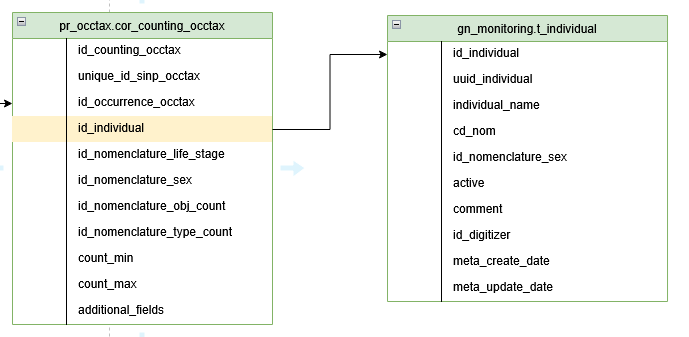
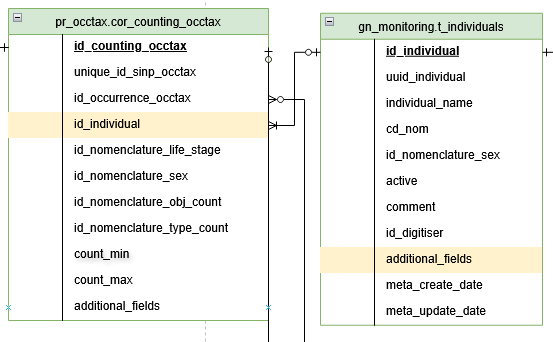
Update CDC with MCD

Changed region(s): [[0.0, 0.0, 1.0, 0.9792], [0.3996, 0.4748, 0.4611, 0.5045], [0.1844, 0.9792, 0.2152, 1.0]]

diff --git a/cahier-des-charges/Cross-DBio-CDC_suivi-individus.md b/cahier-des-charges/Cross-DBio-CDC_suivi-individus.md
@@ -25,6 +25,9 @@
     - [Gestion des capture et échantillons](#gestion-des-capture-et-échantillons)
       - [Prélèvement / capture](#prélèvement--capture)
       - [Echantillons](#echantillons)
+      - [Analyse des échantillons](#analyse-des-échantillons)
+    - [Marquages et équipements sur individus](#marquages-et-équipements-sur-individus)
+    - [Types de sujet d’observation](#types-de-sujet-dobservation)
 
 ## Contexte et besoin
 Le Parc national de la Vanoise (PNV) et le Parc national du Grand Paradis (PNGP) partagent un patrimoine naturel exceptionnel, avec des milieux alpins similaires et des espèces emblématiques communes. Les populations animales, notamment le bouquetin des Alpes, se déplacent ponctuellement entre les deux territoires, ignorant les frontières administratives. Cette continuité écologique nécessite une approche transfrontalière de la gestion et du suivi de la biodiversité.
@@ -263,3 +266,35 @@ Pour certaines espèces, la détermination ne peut se faire qu'après analyse à
 La table t_collection_samples ne fera référence qu’à cette table t_samples.
 
 -------------------------------
+
+#### Analyse des échantillons
+
+Ne semble pas utile aujourd’hui et en l’état à la communauté Geonature. Se pose donc la question de l’implémentation d’un module à part ou de la création d’une base de données à part.
+Amandine Sahl pose même la question de l’intérêt du stockage en BDD au lieu d’une simple numérisation en pdf.
+
+### Marquages et équipements sur individus
+Depuis la version 2.16.0, il existe une table `gn_monitoring.t_marking_events` qui permet le stockage d’évènements de marquage pour le monitoring.
+
+Dans notre contexte en plus de marquages, nous avons besoin d’équiper les individus d’équipements de type collier GPS. Afin de répondre à divers besoins nous pouvons imaginer tout type d’équipements. Pour répondre à ce besoin nous allons donc renommer et modifier la table `t_marking_events` afin qu’elle puisse stocker tout type d’équipement (balises, marquages, …) : `gn_monitoring.t_individual_equipments`.
+
+La table `t_individual_equipments` est liées à une capture, donc a un relevé et n’a donc plus besoin pour la partie occtax des champs de type « évènement » (localisation, date, opérateur).
+
+Côté monitoring, il nous faut, cependant, recréer une table afin de disposer de ces éléments lors de la saisie. Nous créerons donc la table `gn_monitoring.t_capture_events` qui reprends les champs de la table `t_individual_events` non repris dans `t_individual_equipments`.
+ 
+![Schémas t_individual_equipment](./images/marquages_equipements.png)
+
+### Types de sujet d’observation
+
+Il doit être, au regard de nos besoins, possible d’associer à un relevé (une observation) un observateur humain ou non humain.
+
+Types d'observateurs :
+- Humain
+- Machine
+  - Emetteur ou balise : Exemple des colliers GPS
+  - Capteur : Exemple des pièges photos
+
+Aujourd’hui la table `pr_occtax.id_releve_occtax` est la table centrale du relevé. Chaque relevé dispose d’un identifiant unique `id_releve_occtax`. Les observateurs humains lui sont associés via la table de correspondance `cor_role_releves_occtax` et le champ `id_role`.
+
+Nous pouvons donc imaginer la possibilité de rattacher de la même façon un émetteur ou un algorithme à un relevé via une table de correspondance. Pour des facilités de traitement et de filtre des données un champ `id_nomenclature_digitiser_type` peut être utilisé pour indiquer le type du sujet du relevé.
+
+![Schémas id_nomenclature_role_type](./images/type_de_sujet.png)
